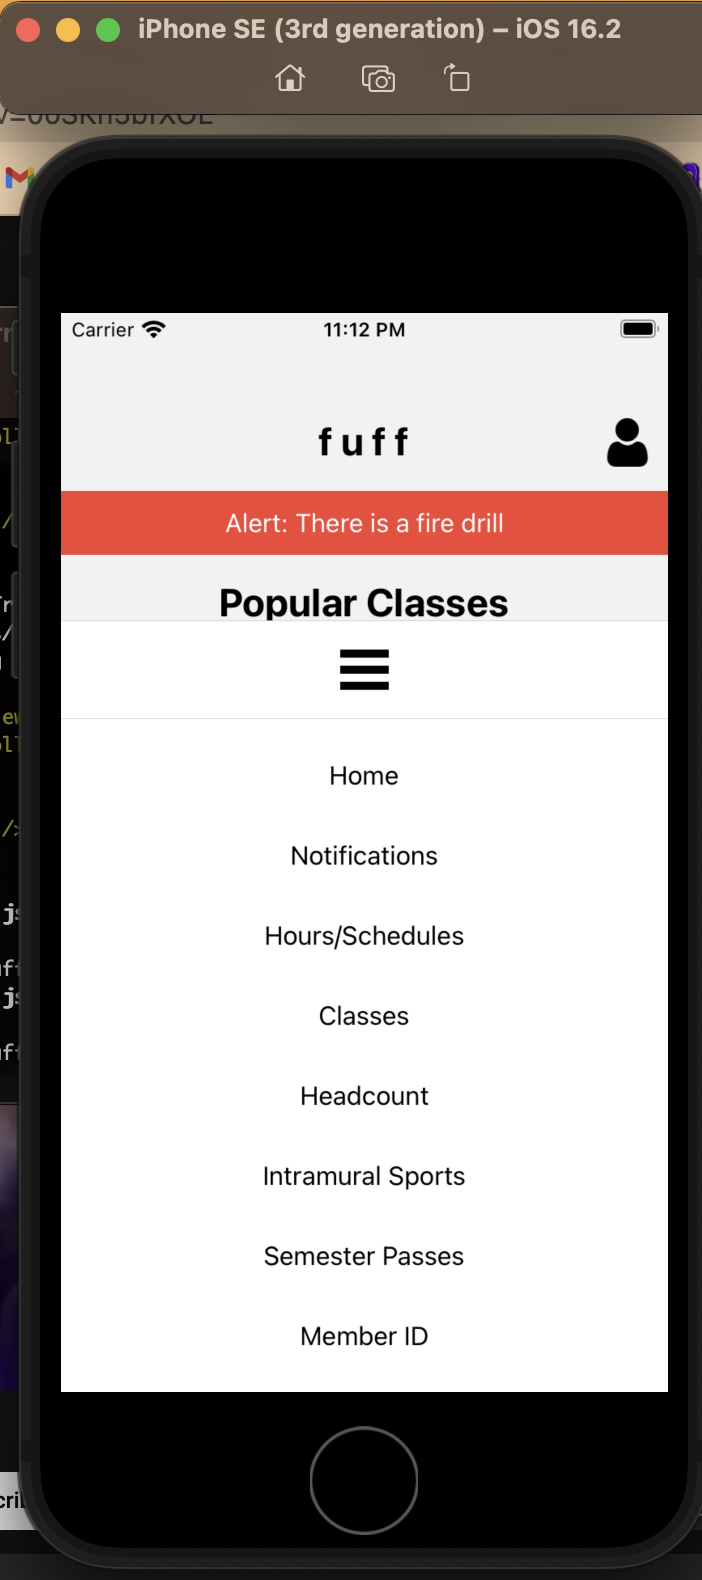
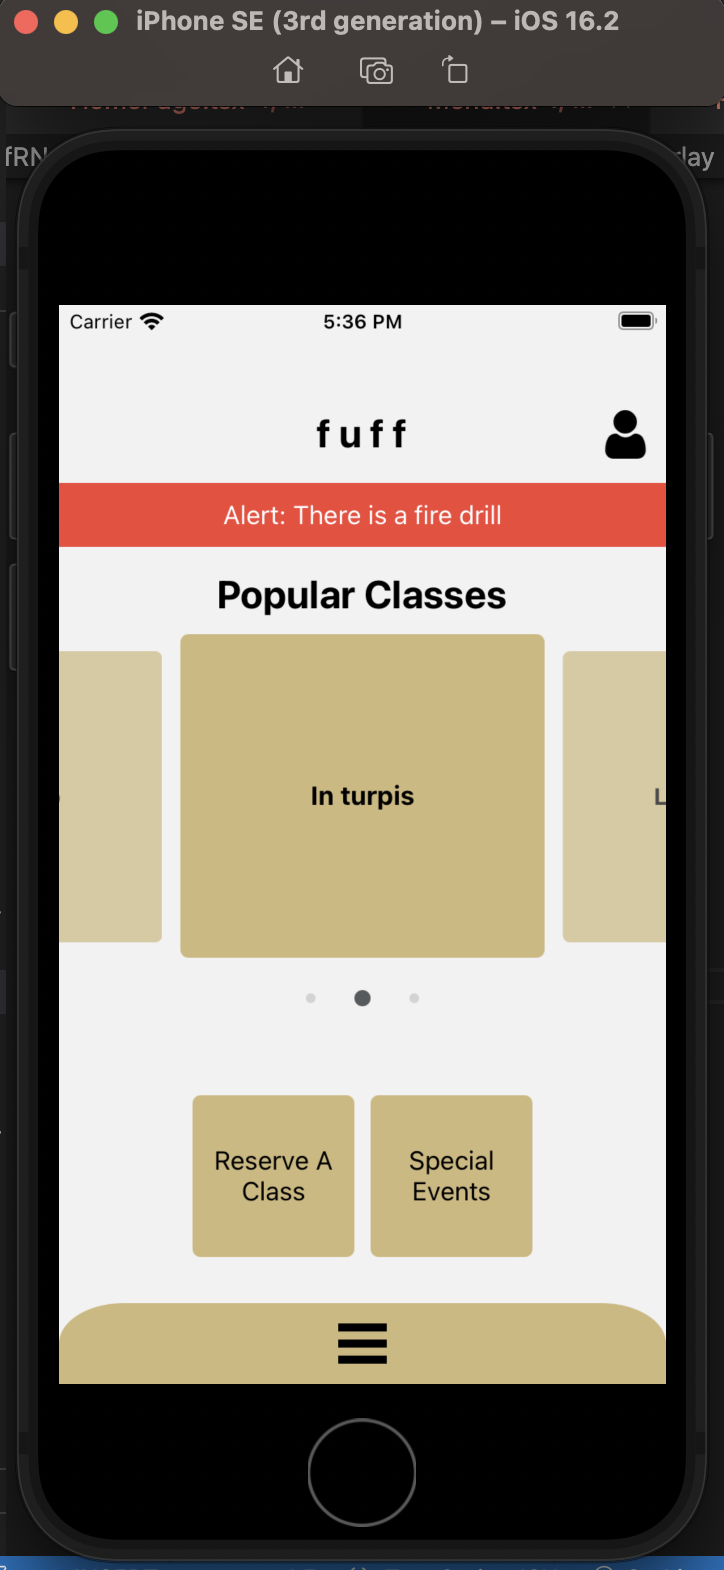
chore: Overlay on menu popup + Menu on Notifications

diff --git a/FuffRN/components/NotificationsPage.tsx b/FuffRN/components/NotificationsPage.tsx
@@ -28,35 +28,38 @@ const NOTIFICATIONS: Notification[] = [
 
 const NotificationsPage = (): JSX.Element => {
   return (
-    <ScrollView style={styles.container}>
-      <Text style={styles.title}>Notifications</Text>
-      <View style={styles.content}>
-        <View style={styles.section}>
-          <Text style={styles.sectionTitle}>Important Announcements</Text>
-          {NOTIFICATIONS.filter(n => n.type === 'alert').map(item => (
-            <View key={item.id} style={styles.notification}>
-              <Text style={styles.notificationTitle}>{item.title}</Text>
-              <Text style={styles.notificationMessage}>{item.message}</Text>
-            </View>
-          ))}
-          {NOTIFICATIONS.filter(n => n.type === 'alert').length === 0 && (
-            <Text style={styles.emptyMessage}>No alert notifications</Text>
-          )}
+    <>
+      <Menu />
+      <ScrollView style={styles.container}>
+        <Text style={styles.title}>Notifications</Text>
+        <View style={styles.content}>
+          <View style={styles.section}>
+            <Text style={styles.sectionTitle}>Important Announcements</Text>
+            {NOTIFICATIONS.filter(n => n.type === 'alert').map(item => (
+              <View key={item.id} style={styles.notification}>
+                <Text style={styles.notificationTitle}>{item.title}</Text>
+                <Text style={styles.notificationMessage}>{item.message}</Text>
+              </View>
+            ))}
+            {NOTIFICATIONS.filter(n => n.type === 'alert').length === 0 && (
+              <Text style={styles.emptyMessage}>No alert notifications</Text>
+            )}
+          </View>
+          <View style={styles.section}>
+            <Text style={styles.sectionTitle}>Your Upcoming Classes</Text>
+            {NOTIFICATIONS.filter(n => n.type === 'message').map(item => (
+              <View key={item.id} style={styles.notification}>
+                <Text style={styles.notificationTitle}>{item.title}</Text>
+                <Text style={styles.notificationMessage}>{item.message}</Text>
+              </View>
+            ))}
+            {NOTIFICATIONS.filter(n => n.type === 'message').length === 0 && (
+              <Text style={styles.emptyMessage}>No registered classes</Text>
+            )}
+          </View>
         </View>
-        <View style={styles.section}>
-          <Text style={styles.sectionTitle}>Your Upcoming Classes</Text>
-          {NOTIFICATIONS.filter(n => n.type === 'message').map(item => (
-            <View key={item.id} style={styles.notification}>
-              <Text style={styles.notificationTitle}>{item.title}</Text>
-              <Text style={styles.notificationMessage}>{item.message}</Text>
-            </View>
-          ))}
-          {NOTIFICATIONS.filter(n => n.type === 'message').length === 0 && (
-            <Text style={styles.emptyMessage}>No registered classes</Text>
-          )}
-        </View>
-      </View>
-    </ScrollView>
+      </ScrollView>
+    </>
   );
 };
 

diff --git a/FuffRN/components/Menu.tsx b/FuffRN/components/Menu.tsx
@@ -7,7 +7,6 @@ import {
   Image,
   LayoutAnimation,
 } from 'react-native';
-import {Button} from 'react-native';
 import {useNavigation} from '@react-navigation/native';
 
 const menuItems = [
@@ -68,21 +67,32 @@ const Menu = (): JSX.Element => {
     ));
 
   return (
-    <View style={styles.menuContainer}>
-      <View>
-        <View style={styles.halfOval}>
-          <TouchableOpacity onPress={handleMenuPress} style={styles.menuButton}>
-            <Image
-              source={require('./assets/menu-icon.png')}
-              style={styles.menuIcon}
-            />
-          </TouchableOpacity>
-        </View>
-      </View>
+    <>
       {isMenuOpen && (
-        <View style={styles.menuItemsContainer}>{renderMenuItems()}</View>
+        <View
+          style={styles.overlay}
+          onStartShouldSetResponder={() => true}
+          onResponderRelease={handleMenuPress}
+        />
       )}
-    </View>
+      <View style={styles.menuContainer}>
+        <View>
+          <View style={styles.halfOval}>
+            <TouchableOpacity
+              onPress={handleMenuPress}
+              style={styles.menuButton}>
+              <Image
+                source={require('./assets/menu-icon.png')}
+                style={styles.menuIcon}
+              />
+            </TouchableOpacity>
+          </View>
+        </View>
+        {isMenuOpen && (
+          <View style={styles.menuItemsContainer}>{renderMenuItems()}</View>
+        )}
+      </View>
+    </>
   );
 };
 
@@ -124,6 +134,15 @@ const styles = StyleSheet.create({
   },
   menuItemTitle: {
     fontSize: 16,
+  },
+  overlay: {
+    backgroundColor: 'rgba(0, 0, 0, 0.6)',
+    position: 'absolute',
+    top: 0,
+    left: 0,
+    right: 0,
+    bottom: 0,
+    zIndex: 1,
   },
 });
 

diff --git a/FuffRN/components/HomePage.tsx b/FuffRN/components/HomePage.tsx
@@ -10,13 +10,13 @@ const HomePage = () => {
   // Sample filler classes data
   const popularClasses = [
     {
-      title: "Aenean leo",
+      title: 'Aenean leo',
     },
     {
-      title: "In turpis",
+      title: 'In turpis',
     },
     {
-      title: "Lorem Ipsum",
+      title: 'Lorem Ipsum',
     },
   ];
 
@@ -37,7 +37,7 @@ const HomePage = () => {
       </View>
       <View style={styles.heroContainer}>
         <Text style={styles.heroTitle}>Popular Classes</Text>
-        <HeroCarousel /> 
+        <HeroCarousel />
       </View>
       <View style={styles.buttonContainer}>
         <TouchableOpacity
@@ -108,7 +108,7 @@ const styles = StyleSheet.create({
   },
   button: {
     backgroundColor: '#CFB87C',
-    width: 100,
+    width: 150,
     height: 100,
     borderRadius: 5,
     justifyContent: 'center',
